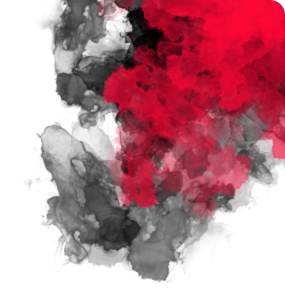
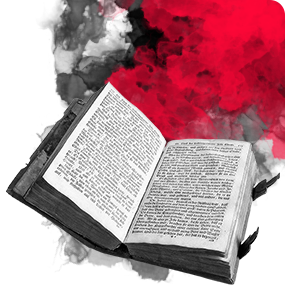
latest

diff --git a/wwwroot/css/brandflex.css b/wwwroot/css/brandflex.css
@@ -12087,6 +12087,59 @@ body {
   line-height: 40px;
 }
 
+.home-scene {
+  position: relative;
+  overflow: hidden;
+  background: #000;
+  min-height: 500px;
+}
+.home-scene .scene, .home-scene .layer {
+  display: block;
+  height: 100%;
+  width: 100%;
+  padding: 0;
+  margin: 0;
+}
+.home-scene .scene {
+  position: absolute;
+  z-index: 1;
+}
+.home-scene .scene .background {
+  background: url("../images/brandflex.jpg") no-repeat 50% 100%;
+  bottom: 0;
+  background-size: cover;
+  position: absolute;
+  width: 110%;
+  left: -5%;
+  top: -5%;
+}
+.home-scene .scene .background:before {
+  content: "";
+  position: absolute;
+  top: 0;
+  bottom: 0;
+  left: 0;
+  right: 0;
+  background-image: url("../images/base-body-overlay.gif");
+  opacity: 0.06;
+  pointer-events: none;
+  z-index: 2;
+}
+.home-scene .scene .background:after {
+  content: "";
+  position: absolute;
+  top: 0;
+  bottom: 0;
+  left: 0;
+  right: 0;
+  background: rgba(0, 0, 0, 0.5);
+  pointer-events: none;
+  z-index: 1;
+}
+.home-scene .wrap {
+  z-index: 2;
+}
+
 .intro .wrap {
   position: relative;
   z-index: 3;
@@ -12915,6 +12968,13 @@ body {
   left: 50%;
   background: url("../images/discovery/splash2.png") no-repeat center center transparent;
 }
+.scene .splash3 {
+  width: 400px;
+  height: 413px;
+  top: 50%;
+  left: 50%;
+  background: url("../images/discovery/splash3.png") no-repeat center center transparent;
+}
 .scene .core {
   width: 398px;
   height: 495px;
@@ -12922,6 +12982,13 @@ body {
   left: 50%;
   margin-left: 100px;
   background: url("../images/discovery/core.png") no-repeat center center transparent;
+}
+.scene .first {
+  width: 398px;
+  height: 495px;
+  top: 50%;
+  left: 50%;
+  background: url("../images/first.png") no-repeat center center transparent;
 }
 .scene .story {
   width: 278px;

diff --git a/wwwroot/scss/pages/home.scss b/wwwroot/scss/pages/home.scss
@@ -1,3 +1,63 @@
+
+.home-scene {
+	position: relative;
+	overflow: hidden;
+	background: $black;
+	min-height: 500px;
+	.scene, .layer {
+	    display: block;
+	    height: 100%;
+	    width: 100%;
+	    padding: 0;
+	    margin: 0;
+	}
+	.scene {
+		position: absolute;
+		z-index: 1;
+		.background {
+			background: url("../images/brandflex.jpg") no-repeat 50% 100%;
+			bottom: 0;
+			background-size: cover;
+			position: absolute;
+			width: 110%;
+			left: -5%;
+			top: -5%;
+			&:before {
+			    content: "";
+			    position: absolute;
+			    top: 0;
+			    bottom: 0;
+			    left: 0;
+			    right: 0;
+			    background-image: url("../images/base-body-overlay.gif");
+			    opacity: .06;
+			    pointer-events: none;
+			    z-index: 2;
+			}
+			&:after {
+			    content: "";
+			    position: absolute;
+			    top: 0;
+			    bottom: 0;
+			    left: 0;
+			    right: 0;
+			    background:rgba($black,0.5);
+			    pointer-events: none;
+			    z-index: 1;
+			}
+		}
+		.copy {
+			
+		}
+	}
+	.wrap {
+		z-index: 2;
+	}
+}
+
+
+
+
 .intro {
 	.wrap {
 		position: relative;

diff --git a/wwwroot/scss/pages/strategy.scss b/wwwroot/scss/pages/strategy.scss
@@ -32,6 +32,13 @@
 		left: 50%;
 		background: url("../images/discovery/splash2.png") no-repeat center center transparent;
 	}
+	.splash3 {
+		width: 400px;
+		height: 413px;
+		top: 50%;
+		left: 50%;
+		background: url("../images/discovery/splash3.png") no-repeat center center transparent;
+	}
 	.core {
 		width: 398px;
 		height: 495px;
@@ -39,6 +46,13 @@
 		left: 50%;
 		margin-left: 100px;
 		background: url("../images/discovery/core.png") no-repeat center center transparent;
+	}
+	.first {
+		width: 398px;
+		height: 495px;
+		top: 50%;
+		left: 50%;
+		background: url("../images/first.png") no-repeat center center transparent;
 	}
 	.story {
 		width: 278px;
